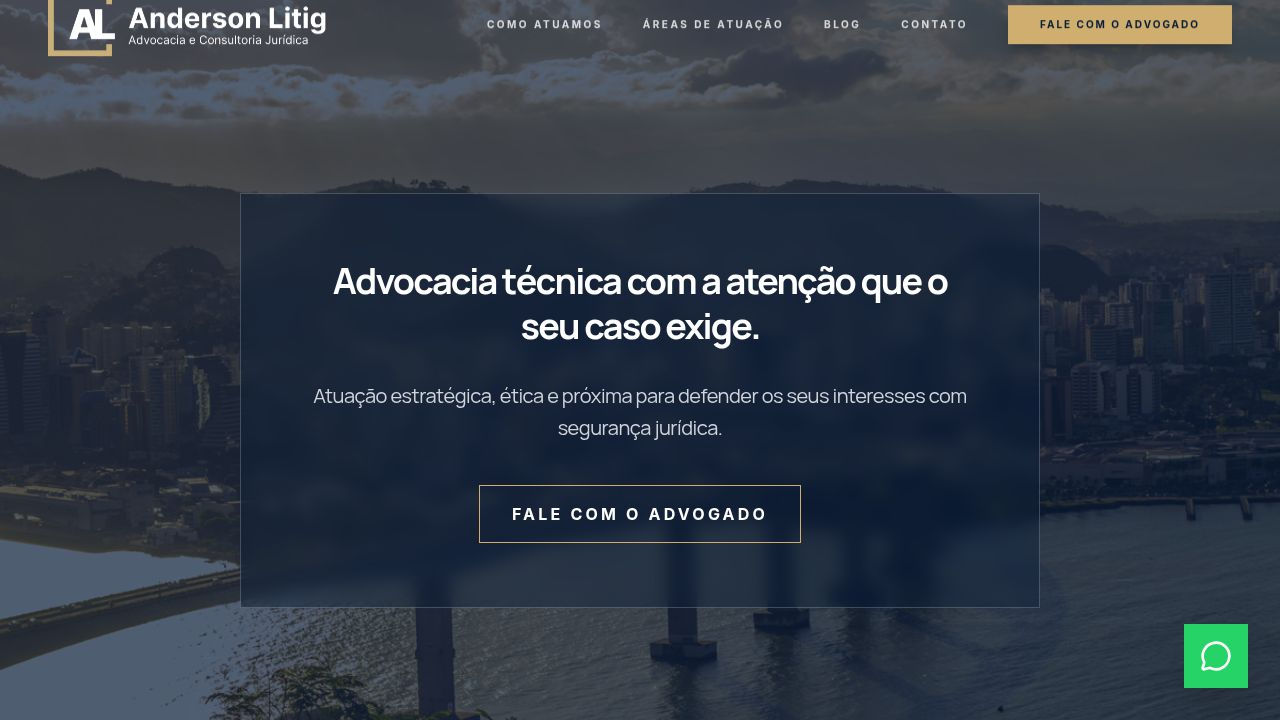
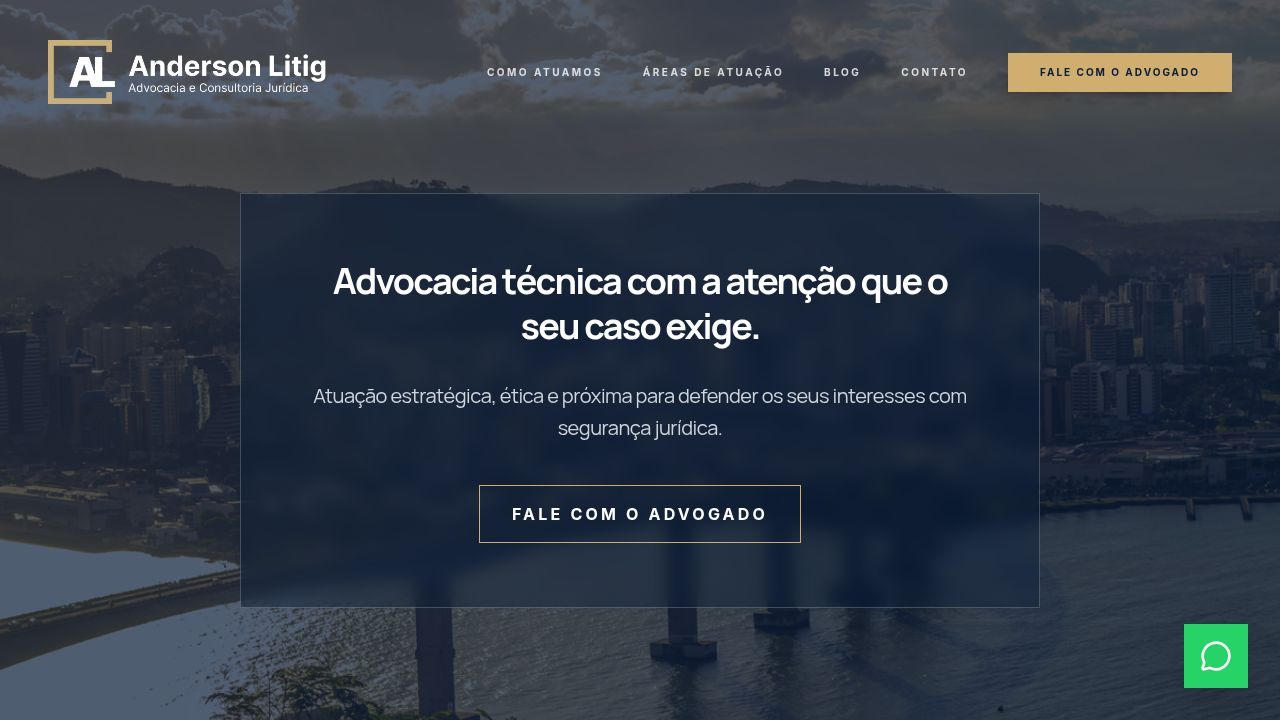
Update article pages to simplify calls to action and add author info
Refactor `BlogElements.tsx` to introduce `AuthorBlock` and `RecommendedPosts` components, and simplify the `BlogCTA`. Update `BlogPost1.tsx`, `BlogPost2.tsx`, and `BlogPost3.tsx` to include these new components after the existing CTA.

Replit-Commit-Author: Agent
Replit-Commit-Session-Id: a928788c-56df-4355-85a0-ecec11bf4dec
Replit-Commit-Checkpoint-Type: full_checkpoint
Replit-Commit-Event-Id: 26276917-8369-4286-aaee-1e245694da8e
Replit-Commit-Screenshot-Url: https://storage.googleapis.com/screenshot-production-us-central1/f820be89-752f-4ab6-a567-d1ce3400b726/a928788c-56df-4355-85a0-ecec11bf4dec/tz5jcee
Replit-Helium-Checkpoint-Created: true

diff --git a/client/src/components/blog/BlogElements.tsx b/client/src/components/blog/BlogElements.tsx
@@ -1,24 +1,95 @@
-import { MessageCircle, Share2 } from "lucide-react";
+import { MessageCircle, Share2, User } from "lucide-react";
+import { Link } from "wouter";
 
 export default function BlogCTA() {
   return (
-    <div className="bg-[#0D0D0D] p-10 text-white border-l-8 border-[#CFAE70] my-16">
-      <h3 className="text-2xl font-bold uppercase tracking-tighter mb-4">Esclareça suas dúvidas</h3>
-      <p className="text-gray-400 mb-8 leading-relaxed italic">
-        O conteúdo acima possui caráter meramente informativo. Caso você tenha dúvidas sobre a aplicação da lei ao seu caso concreto ou precise de orientações técnicas específicas, nossa equipe jurídica está disponível para fornecer esclarecimentos fundamentados.
-      </p>
-      <div className="flex flex-col sm:flex-row gap-4 items-center">
+    <div className="bg-[#0D0D0D] p-8 text-white border-l-4 border-[#CFAE70] my-12 flex flex-col md:flex-row items-center justify-between gap-6">
+      <div>
+        <h3 className="text-xl font-bold uppercase tracking-tighter mb-1">Esclareça suas dúvidas</h3>
+        <p className="text-gray-400 text-sm italic">Fale agora com um advogado especializado.</p>
+      </div>
+      <div className="flex flex-col items-center md:items-end gap-2">
         <a 
           href="https://wa.me/5527999999999" 
           target="_blank" 
           rel="noopener noreferrer"
-          className="inline-flex items-center justify-center gap-3 bg-[#CFAE70] text-[#091D39] py-4 px-8 font-bold uppercase tracking-widest hover:bg-white transition-all w-full sm:w-auto"
+          className="inline-flex items-center justify-center gap-3 bg-[#CFAE70] text-[#091D39] py-3 px-6 text-xs font-bold uppercase tracking-widest hover:bg-white transition-all w-full md:w-auto"
         >
-          <MessageCircle size={20} /> Solicitar Informação Técnica
+          <MessageCircle size={18} /> Falar com Advogado
         </a>
-        <div className="text-[9px] text-gray-500 uppercase tracking-widest leading-tight text-center sm:text-left">
-          Atividade consultiva em estrita conformidade <br /> com o Código de Ética e Disciplina da OAB.
-        </div>
+        <span className="text-[8px] text-gray-500 uppercase tracking-widest text-center md:text-right">
+          Atividade consultiva em conformidade com o Código de Ética da OAB.
+        </span>
+      </div>
+    </div>
+  );
+}
+
+export function AuthorBlock() {
+  return (
+    <div className="py-12 border-t border-gray-100 flex flex-col md:flex-row gap-8 items-center md:items-start text-center md:text-left">
+      <div className="w-24 h-24 rounded-full bg-gray-200 overflow-hidden flex-shrink-0 grayscale">
+        <img 
+          src="https://images.unsplash.com/photo-1556157382-97eda2d62296?q=80&w=2070&auto=format&fit=crop" 
+          alt="Autor" 
+          className="w-full h-full object-cover"
+        />
+      </div>
+      <div>
+        <span className="text-[10px] font-bold uppercase tracking-[0.2em] text-[#CFAE70] mb-2 block">Escrito por</span>
+        <h4 className="text-xl font-bold text-[#091D39] uppercase tracking-tighter mb-2">Dr. Guilherme Rodrigues</h4>
+        <p className="text-gray-500 text-sm leading-relaxed max-w-2xl font-light">
+          Sócio-fundador especializado em Direito Civil e Processual Civil. Com ampla experiência em contencioso estratégico e consultoria jurídica preventiva, focado em soluções ágeis para casos complexos.
+        </p>
+      </div>
+    </div>
+  );
+}
+
+const recommendedPosts = [
+  {
+    id: 1,
+    title: "Direito à Saúde: Como reverter negativas de planos de saúde",
+    date: "15 Mai 2024",
+    path: "/blog/negativas-plano-de-saude",
+    image: "https://images.unsplash.com/photo-1576091160550-2173dba999ef?q=80&w=2070&auto=format&fit=crop"
+  },
+  {
+    id: 2,
+    title: "Herança e Inventário: O que você precisa saber hoje",
+    date: "10 Mai 2024",
+    path: "/blog/heranca-e-inventario",
+    image: "https://images.unsplash.com/photo-1589829545856-d10d557cf95f?auto=format&fit=crop&q=80&w=800"
+  },
+  {
+    id: 3,
+    title: "Juros Abusivos: Como identificar e revisar seu contrato",
+    date: "05 Mai 2024",
+    path: "/blog/juros-abusivos",
+    image: "https://images.unsplash.com/photo-1554224155-6726b3ff858f?q=80&w=2011&auto=format&fit=crop"
+  }
+];
+
+export function RecommendedPosts({ currentId }: { currentId: number }) {
+  const posts = recommendedPosts.filter(p => p.id !== currentId).slice(0, 2);
+
+  return (
+    <div className="pt-16 border-t border-gray-100">
+      <h4 className="text-sm font-bold uppercase tracking-[0.3em] text-[#091D39] mb-8">Artigos Recomendados</h4>
+      <div className="grid grid-cols-1 md:grid-cols-2 gap-8">
+        {posts.map((post) => (
+          <Link key={post.id} href={post.path}>
+            <a className="group block">
+              <div className="aspect-video overflow-hidden mb-4 bg-gray-100 grayscale group-hover:grayscale-0 transition-all duration-500">
+                <img src={post.image} alt={post.title} className="w-full h-full object-cover group-hover:scale-105 transition-transform duration-700" />
+              </div>
+              <span className="text-[9px] font-bold text-[#CFAE70] uppercase tracking-widest mb-2 block">{post.date}</span>
+              <h5 className="text-lg font-bold text-[#091D39] uppercase tracking-tighter leading-tight group-hover:text-[#CFAE70] transition-colors line-clamp-2">
+                {post.title}
+              </h5>
+            </a>
+          </Link>
+        ))}
       </div>
     </div>
   );

diff --git a/client/src/pages/BlogPost1.tsx b/client/src/pages/BlogPost1.tsx
@@ -2,7 +2,7 @@ import { ChevronRight, Calendar } from "lucide-react";
 import { Link } from "wouter";
 import Navbar from "@/components/layout/Navbar";
 import Footer from "@/components/layout/Footer";
-import BlogCTA, { ShareButtons } from "@/components/blog/BlogElements";
+import BlogCTA, { ShareButtons, AuthorBlock, RecommendedPosts } from "@/components/blog/BlogElements";
 
 export default function BlogPost1() {
   const title = "Direito à Saúde: Como reverter negativas de planos de saúde";
@@ -71,6 +71,8 @@ export default function BlogPost1() {
               </div>
 
               <BlogCTA />
+              <AuthorBlock />
+              <RecommendedPosts currentId={1} />
             </div>
           </div>
         </article>

diff --git a/client/src/pages/BlogPost3.tsx b/client/src/pages/BlogPost3.tsx
@@ -2,7 +2,7 @@ import { ChevronRight, Calendar } from "lucide-react";
 import { Link } from "wouter";
 import Navbar from "@/components/layout/Navbar";
 import Footer from "@/components/layout/Footer";
-import BlogCTA, { ShareButtons } from "@/components/blog/BlogElements";
+import BlogCTA, { ShareButtons, AuthorBlock, RecommendedPosts } from "@/components/blog/BlogElements";
 
 export default function BlogPost3() {
   const title = "Juros Abusivos: Como identificar e revisar seu contrato";
@@ -71,6 +71,8 @@ export default function BlogPost3() {
               </div>
 
               <BlogCTA />
+              <AuthorBlock />
+              <RecommendedPosts currentId={3} />
             </div>
           </div>
         </article>

diff --git a/client/src/pages/BlogPost2.tsx b/client/src/pages/BlogPost2.tsx
@@ -2,7 +2,7 @@ import { ChevronRight, Calendar } from "lucide-react";
 import { Link } from "wouter";
 import Navbar from "@/components/layout/Navbar";
 import Footer from "@/components/layout/Footer";
-import BlogCTA, { ShareButtons } from "@/components/blog/BlogElements";
+import BlogCTA, { ShareButtons, AuthorBlock, RecommendedPosts } from "@/components/blog/BlogElements";
 
 export default function BlogPost2() {
   const title = "Herança e Inventário: O que você precisa saber hoje";
@@ -71,6 +71,8 @@ export default function BlogPost2() {
               </div>
 
               <BlogCTA />
+              <AuthorBlock />
+              <RecommendedPosts currentId={2} />
             </div>
           </div>
         </article>
